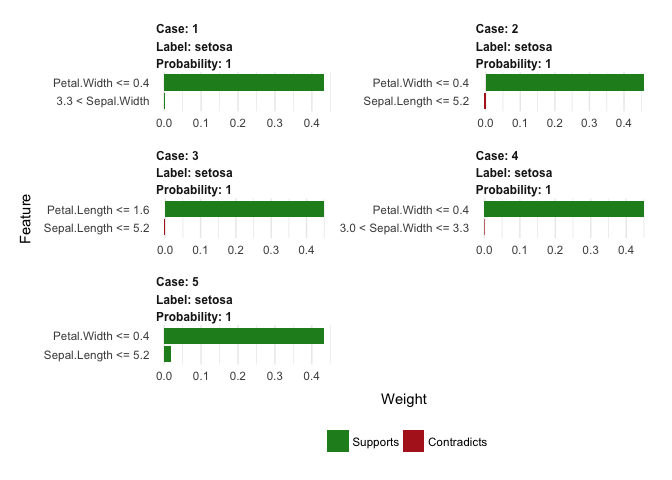
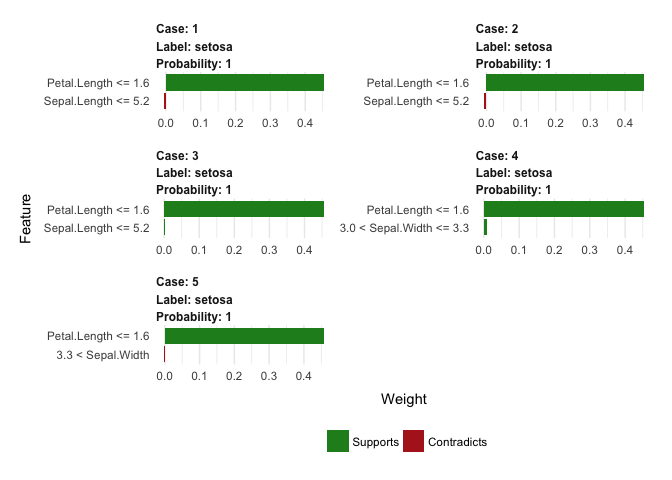
Better format

diff --git a/README.md b/README.md
@@ -5,7 +5,10 @@ lime <img src="man/figures/lime_logo.jpg" align="right" />
 
 [![Travis-CI Build Status](https://travis-ci.org/thomasp85/lime.svg?branch=master)](https://travis-ci.org/thomasp85/lime) [![AppVeyor Build Status](https://ci.appveyor.com/api/projects/status/github/thomasp85/lime?branch=master&svg=true)](https://ci.appveyor.com/project/thomasp85/lime) [![CRAN\_Release\_Badge](http://www.r-pkg.org/badges/version-ago/lime)](https://CRAN.R-project.org/package=lime) [![CRAN\_Download\_Badge](http://cranlogs.r-pkg.org/badges/lime)](https://CRAN.R-project.org/package=lime) [![Coverage Status](https://img.shields.io/codecov/c/github/thomasp85/lime/master.svg)](https://codecov.io/github/thomasp85/lime?branch=master)
 
-> There once was a package called lime, Whose models were simply sublime, It gave explanations for it's variations, one observation at a time.
+> There once was a package called lime,
+> Whose models were simply sublime,
+> It gave explanations for it's variations,
+> one observation at a time.
 >
 > *lime-rick by Mara Averick*
 
@@ -46,24 +49,24 @@ explanation <- explain(iris_test, explainer, n_labels = 1, n_features = 2)
 # output from the model.
 head(explanation)
 #>       model_type case  label label_prob  model_r2 model_intercept
-#> 1 classification    1 setosa          1 0.3667000       0.2340950
-#> 2 classification    1 setosa          1 0.3667000       0.2340950
-#> 3 classification    2 setosa          1 0.3950771       0.2404793
-#> 4 classification    2 setosa          1 0.3950771       0.2404793
-#> 5 classification    3 setosa          1 0.3739461       0.2490111
-#> 6 classification    3 setosa          1 0.3739461       0.2490111
+#> 1 classification    1 setosa          1 0.3901382       0.2546456
+#> 2 classification    1 setosa          1 0.3901382       0.2546456
+#> 3 classification    2 setosa          1 0.3818484       0.2507161
+#> 4 classification    2 setosa          1 0.3818484       0.2507161
+#> 5 classification    3 setosa          1 0.3789301       0.2532487
+#> 6 classification    3 setosa          1 0.3789301       0.2532487
 #>   model_prediction      feature feature_value feature_weight
-#> 1        0.6692257  Sepal.Width           3.5    0.001141157
-#> 2        0.6692257  Petal.Width           0.2    0.433989539
-#> 3        0.6930694 Sepal.Length           4.9   -0.005321281
-#> 4        0.6930694  Petal.Width           0.2    0.457911380
-#> 5        0.6965257 Sepal.Length           4.7   -0.003101128
-#> 6        0.6965257 Petal.Length           1.3    0.450615701
+#> 1        0.7047768 Sepal.Length           5.1   -0.004917920
+#> 2        0.7047768 Petal.Length           1.4    0.455049192
+#> 3        0.6978629 Sepal.Length           4.9   -0.007657797
+#> 4        0.6978629 Petal.Length           1.4    0.454804591
+#> 5        0.7132436 Sepal.Length           4.7    0.003284767
+#> 6        0.7132436 Petal.Length           1.3    0.456710094
 #>          feature_desc               data prediction
-#> 1   3.3 < Sepal.Width 5.1, 3.5, 1.4, 0.2    1, 0, 0
-#> 2  Petal.Width <= 0.4 5.1, 3.5, 1.4, 0.2    1, 0, 0
+#> 1 Sepal.Length <= 5.2 5.1, 3.5, 1.4, 0.2    1, 0, 0
+#> 2 Petal.Length <= 1.6 5.1, 3.5, 1.4, 0.2    1, 0, 0
 #> 3 Sepal.Length <= 5.2 4.9, 3.0, 1.4, 0.2    1, 0, 0
-#> 4  Petal.Width <= 0.4 4.9, 3.0, 1.4, 0.2    1, 0, 0
+#> 4 Petal.Length <= 1.6 4.9, 3.0, 1.4, 0.2    1, 0, 0
 #> 5 Sepal.Length <= 5.2 4.7, 3.2, 1.3, 0.2    1, 0, 0
 #> 6 Petal.Length <= 1.6 4.7, 3.2, 1.3, 0.2    1, 0, 0
 
